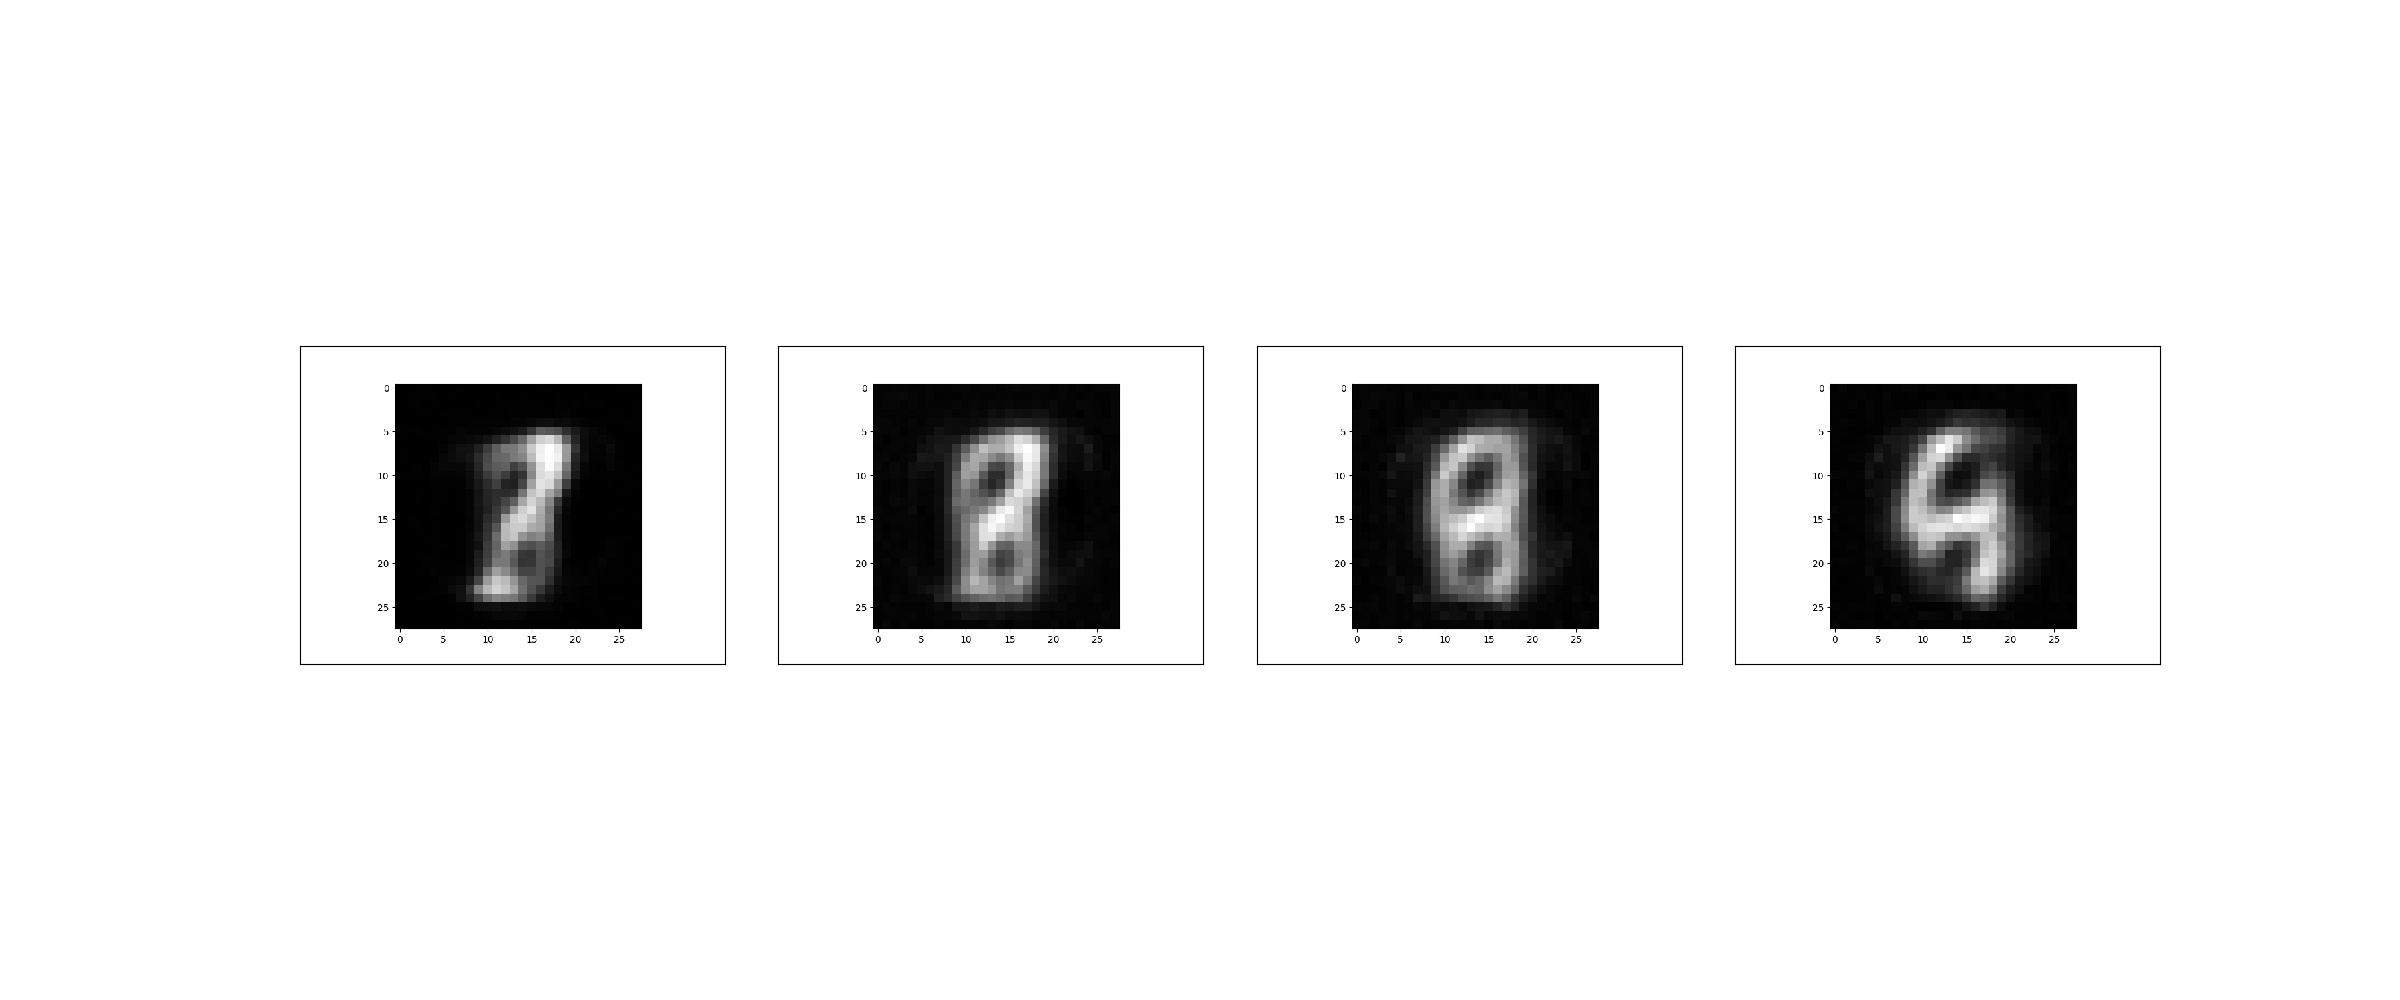
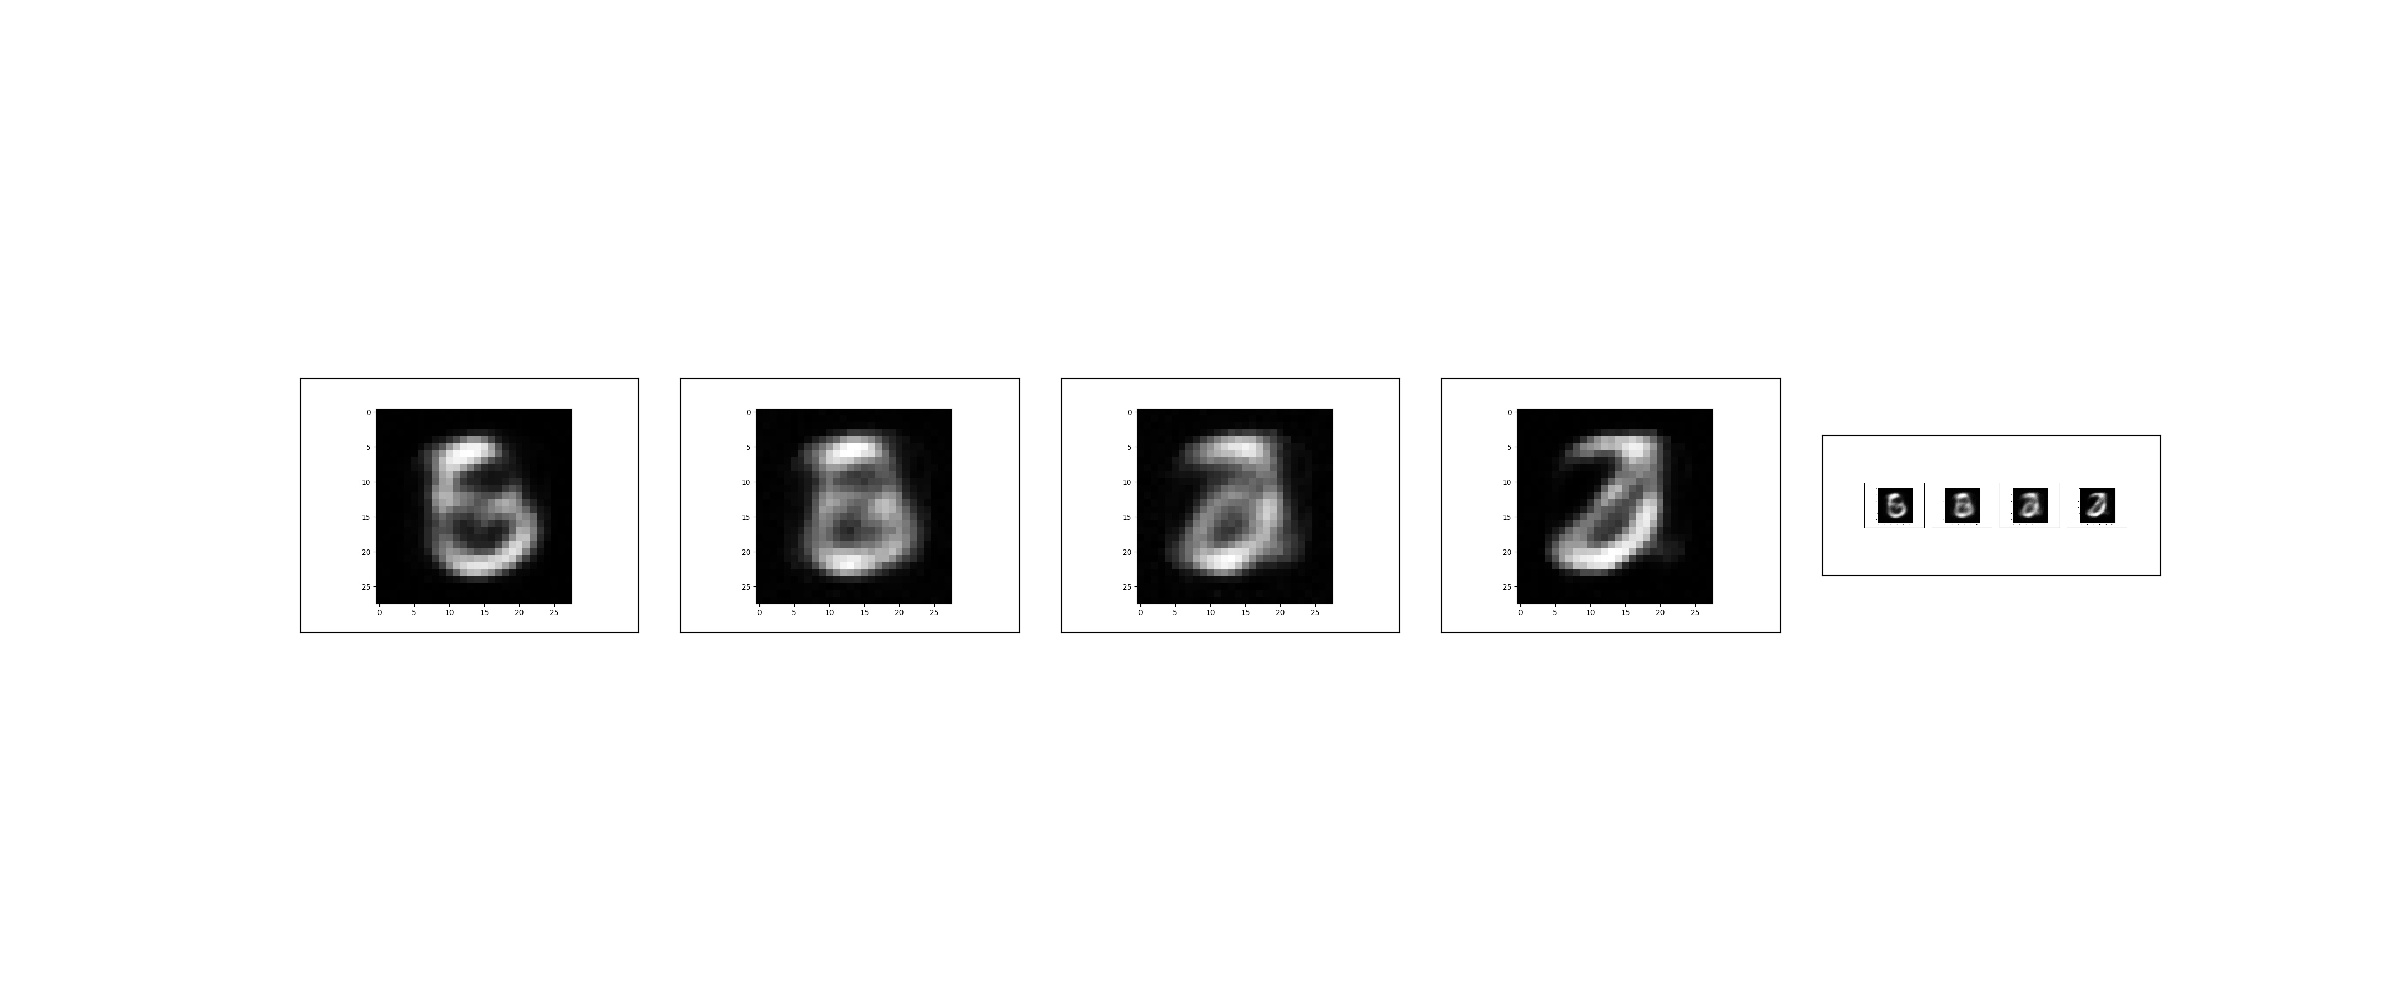
sub_plot_1

Changed region(s): [[0.3125, 0.372, 0.7188, 0.651], [0.75, 0.372, 0.9062, 0.651], [0.1562, 0.372, 0.2812, 0.651]]

diff --git a/algorithm1_new.py b/algorithm1_new.py
@@ -290,8 +290,8 @@ def main1(model,z0,zt):
         	e1 = step_size*etta_i
         	z_collection[i] = z_collection[i].view(20,1)
         	z_collection[i] = z_collection[i] - e1
-    # for p in range(T):
-    #     make_image(z=z_collection[p].view(20),name=str(p))
+    for p in range(T):
+    	make_image(z=z_collection[p].view(20),name=str(p))
     return z_collection
 
 #############################################################################
@@ -309,7 +309,7 @@ z0 = Variable(torch.FloatTensor(20).normal_(), requires_grad=True)
 zt = Variable(torch.FloatTensor(20).normal_(), requires_grad=True)
 zt1 = Variable(torch.FloatTensor(20).normal_(), requires_grad=True)
 
-#main1(model=model,z0=z0, zt=zt)
+main1(model=model,z0=z0, zt=zt)
 
 
 	

diff --git a/algorithm1.py b/algorithm1.py
@@ -214,12 +214,6 @@ def sum_energy(model):
 	multi = (torch.mm((delta_e),torch.transpose(delta_e,0,1)))
 	return multi
 
-# def sum_energy_1(model):
-# 	delta_e = torch.FloatTensor(20,1).zero_()
-# 	for i in range(1,T-2):
-# 		delta_e += find_energy(model,z_collection[i-1].view(20),z_collection[i].view(20),z_collection[i+1].view(20))
-# 	return find_mod(delta_e)
-
 def sum_energy_1(model):
     delta_e = torch.FloatTensor(20,1).zero_()
     for i in range(1,T-2):

diff --git a/results/algorithm1/with_distances/subplot.py b/results/algorithm1/with_distances/subplot.py
@@ -11,7 +11,7 @@ import math
 from scipy.misc import imread
 
 def plot_images():
-    folder = path.realpath("i5")
+    folder = path.realpath("a4")
     images = os.listdir(folder)
     print(images)
     i = 0
